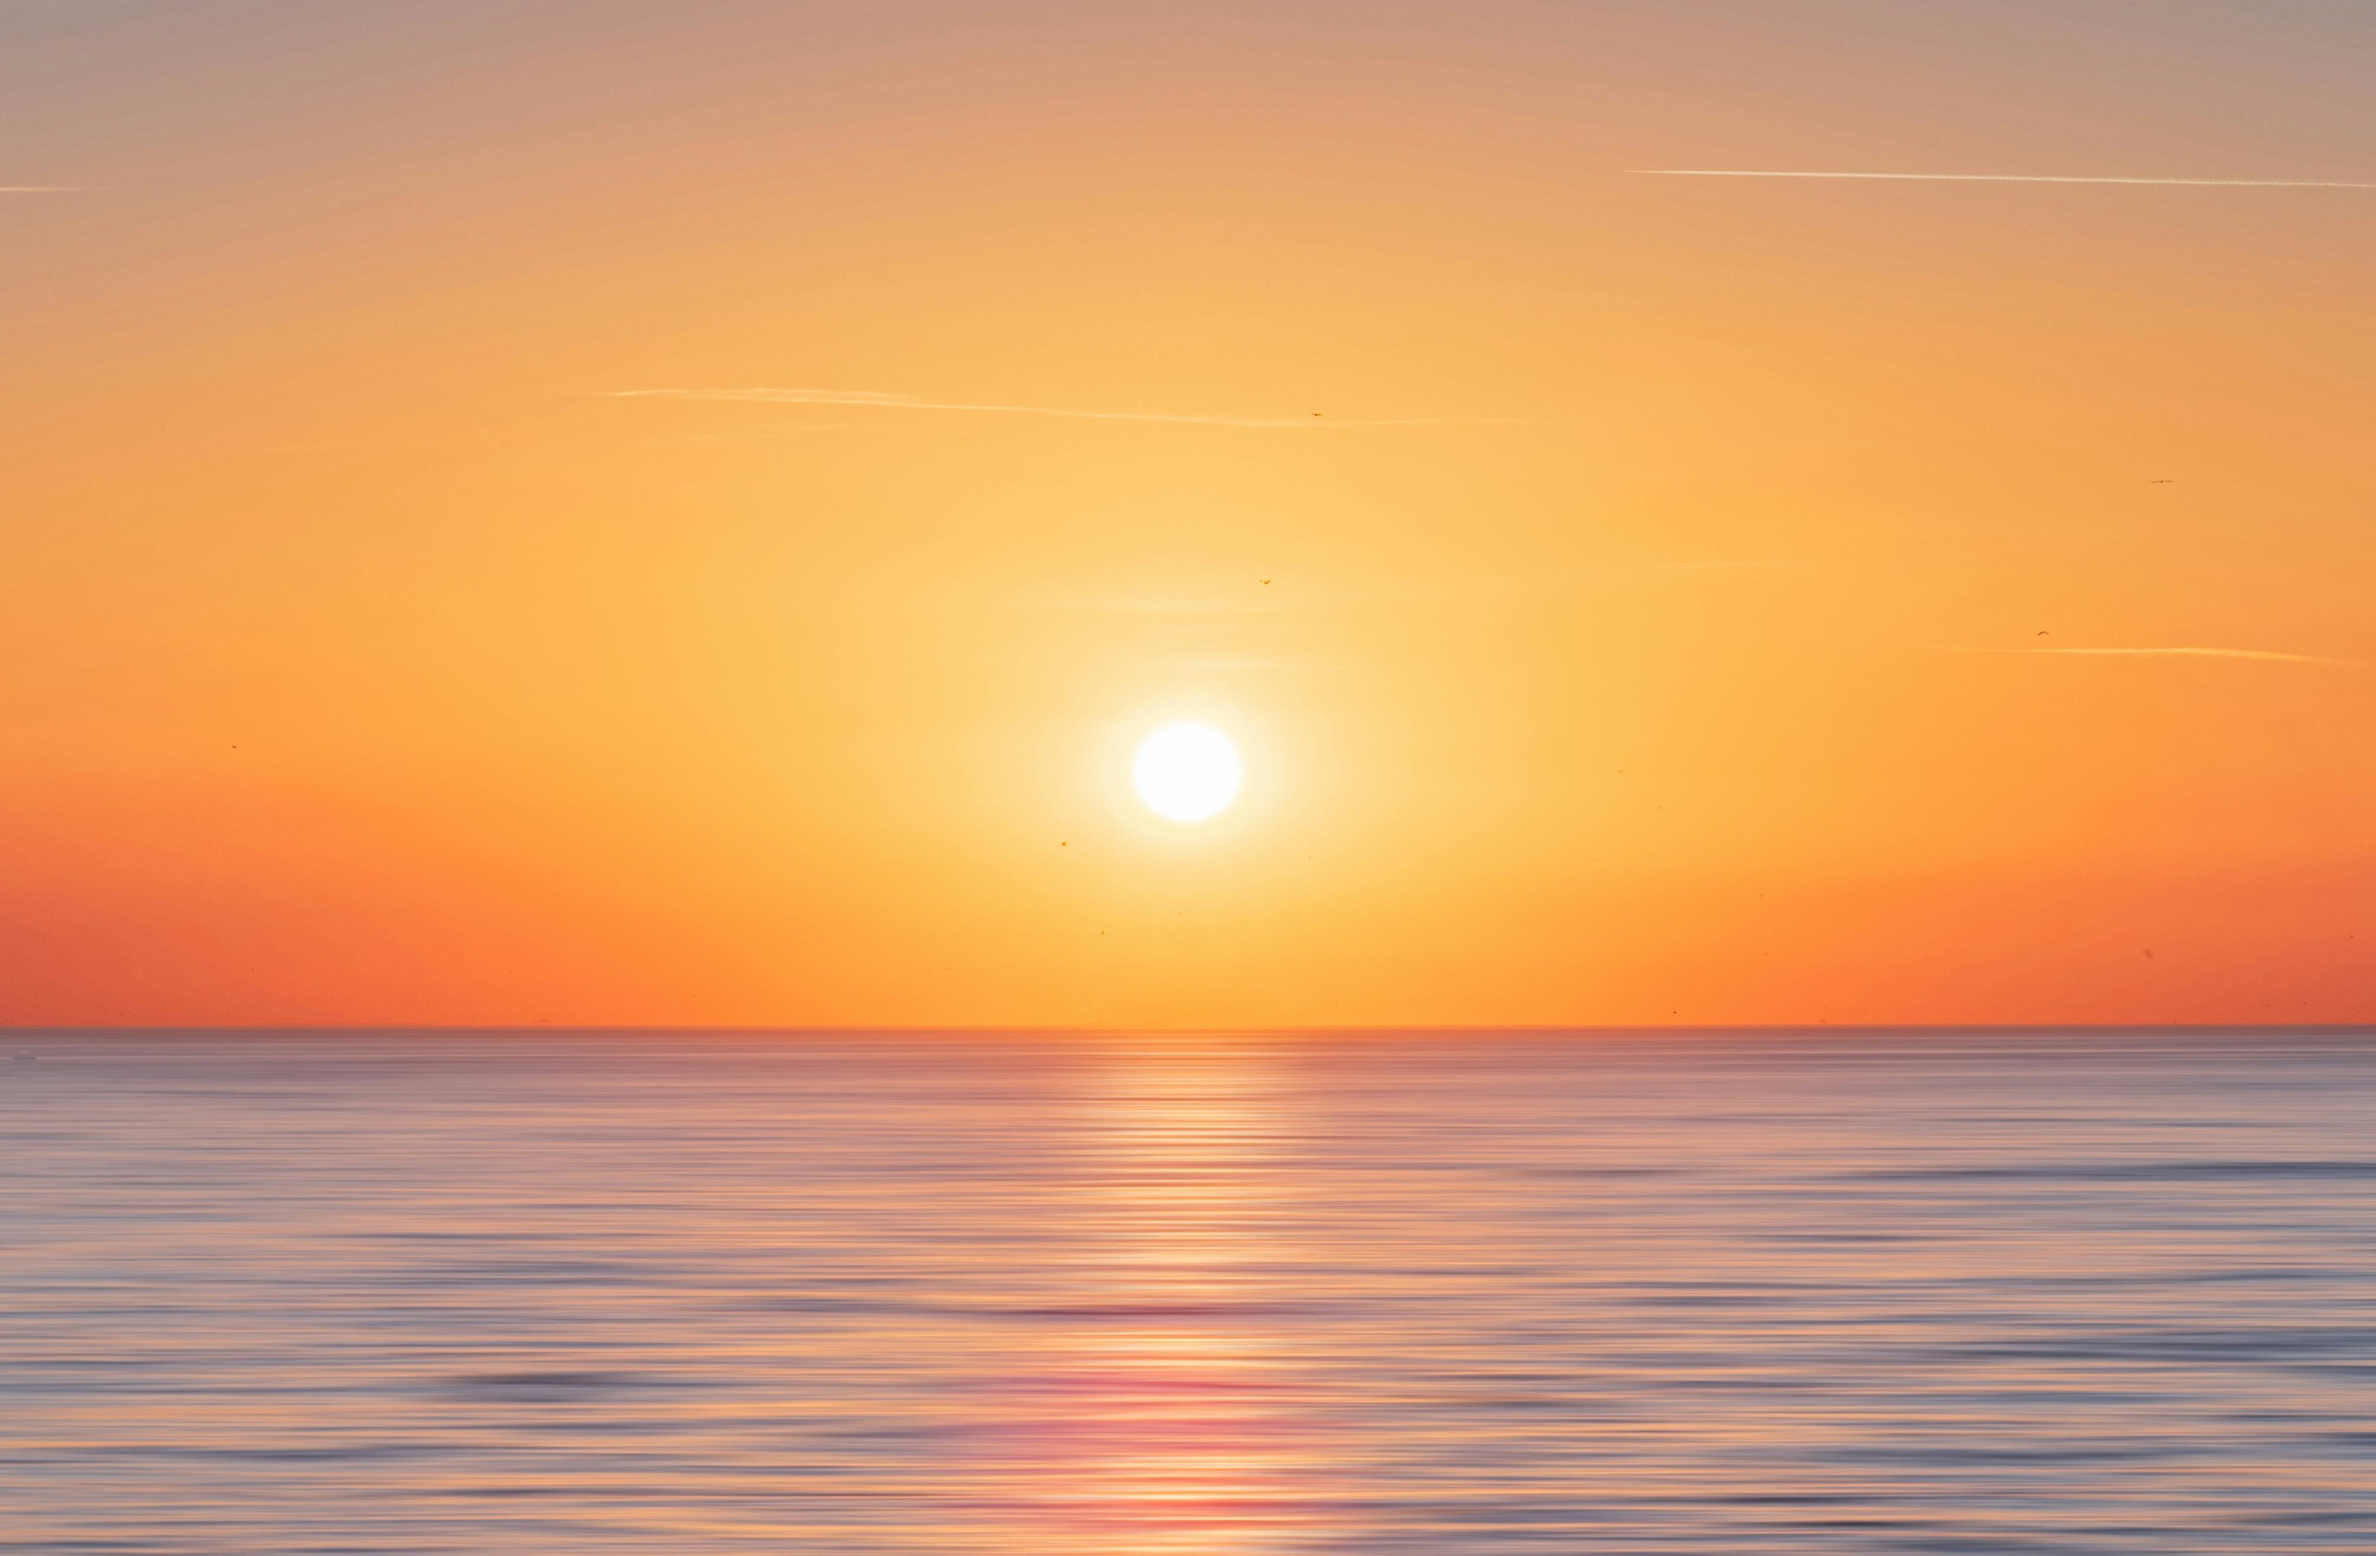
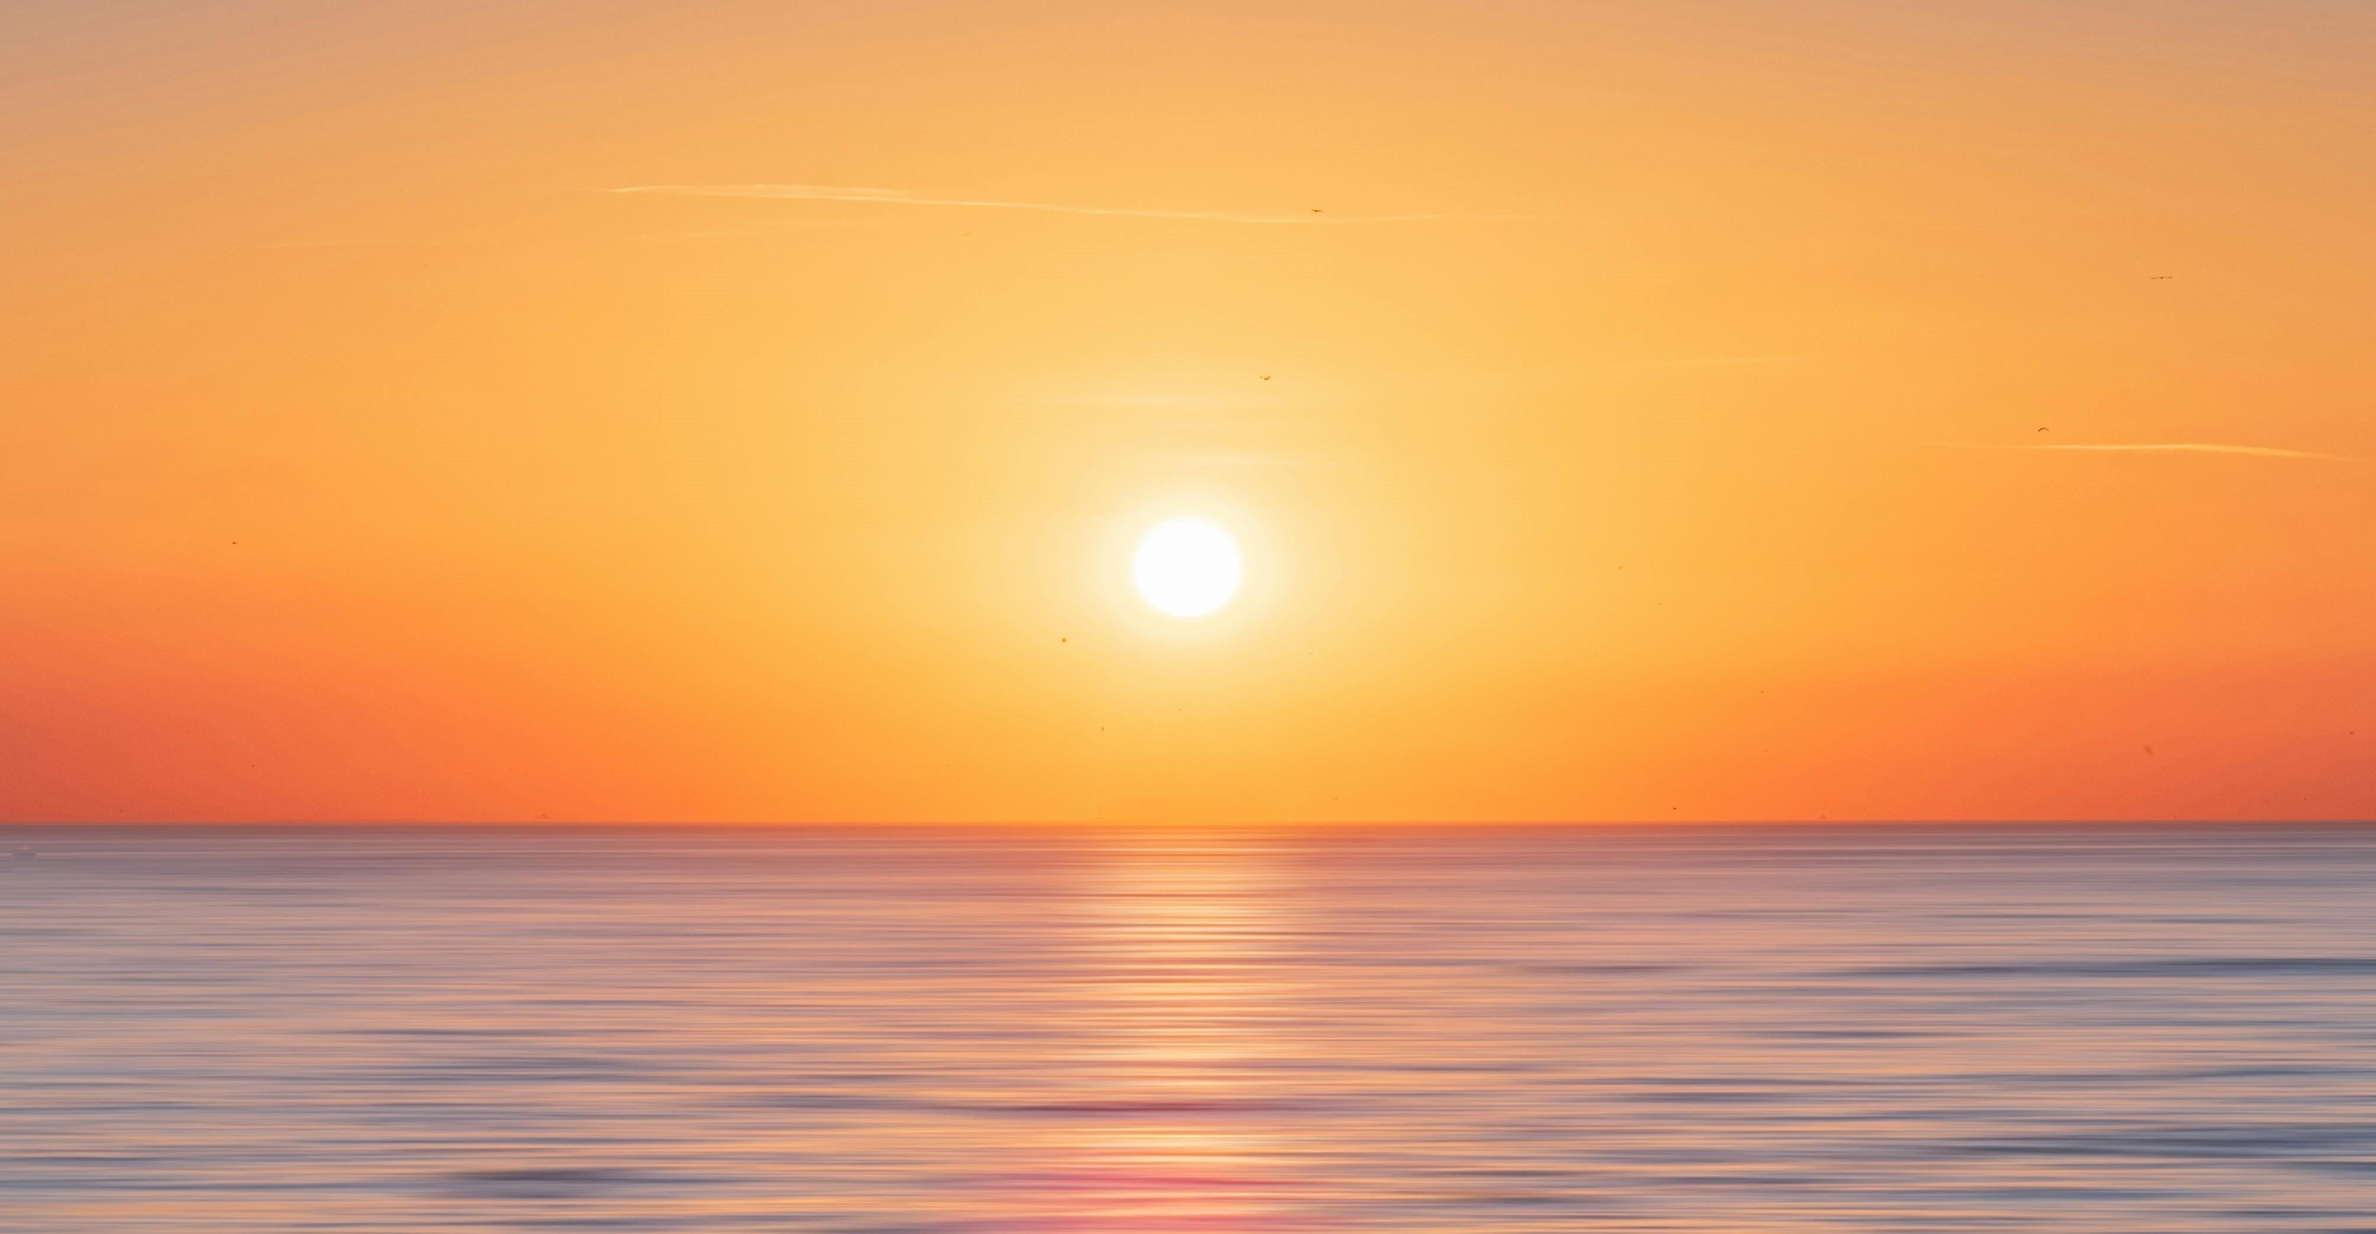
Fondo arreglado.

diff --git a/assets/css/general.css b/assets/css/general.css
@@ -42,6 +42,7 @@ main {
     background-image: url(../imagenes/fondo_horizonte.jpg);
     background-repeat: no-repeat;
     background-position: center;
+    background-size: 100% 100%; 
 
     font-family: Verdana, sans-serif;
 
@@ -64,7 +65,7 @@ header {
 }
 
 footer {
-    background-color: orange;
+    background-color: rgb(255, 224, 138);
     color: black;
 
     display: flex;
